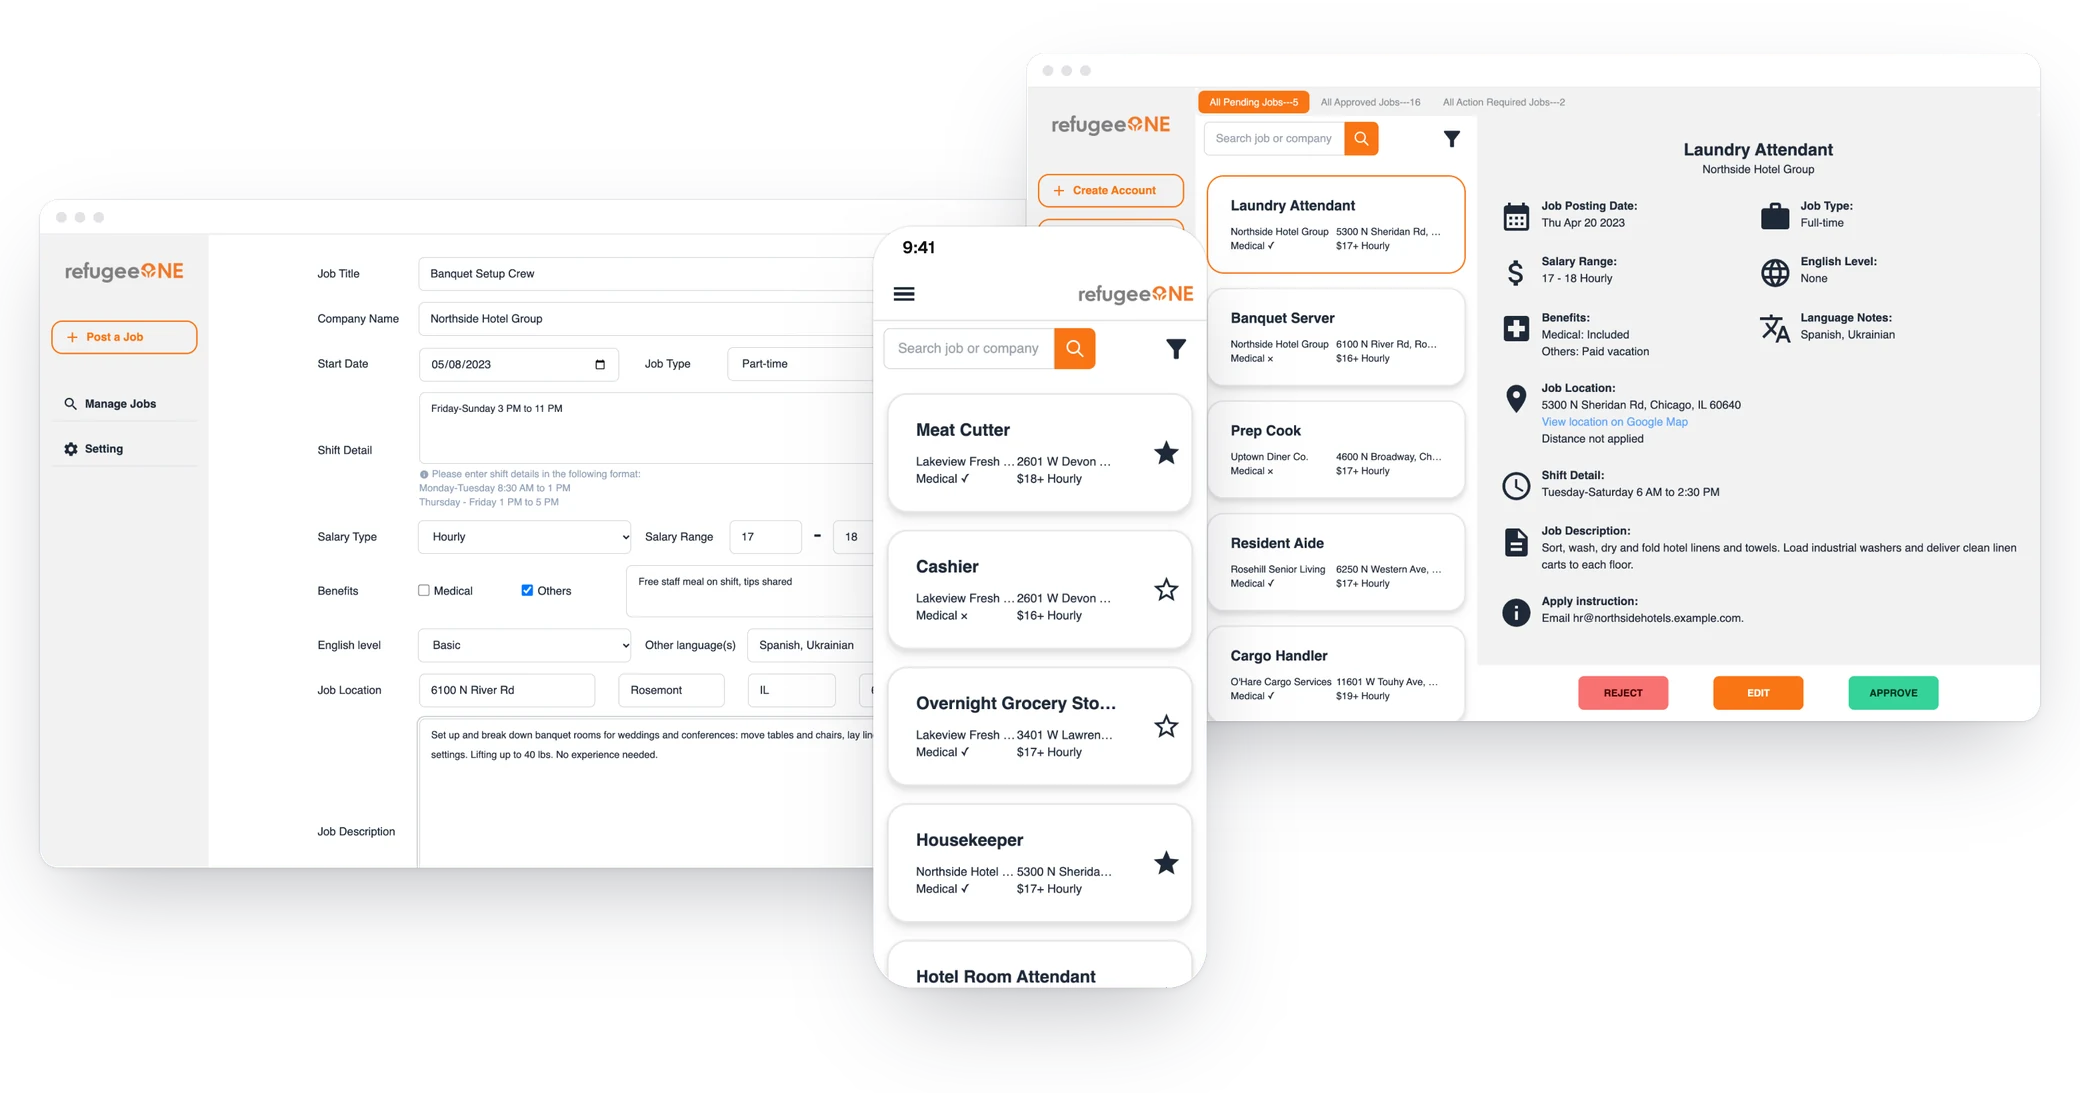
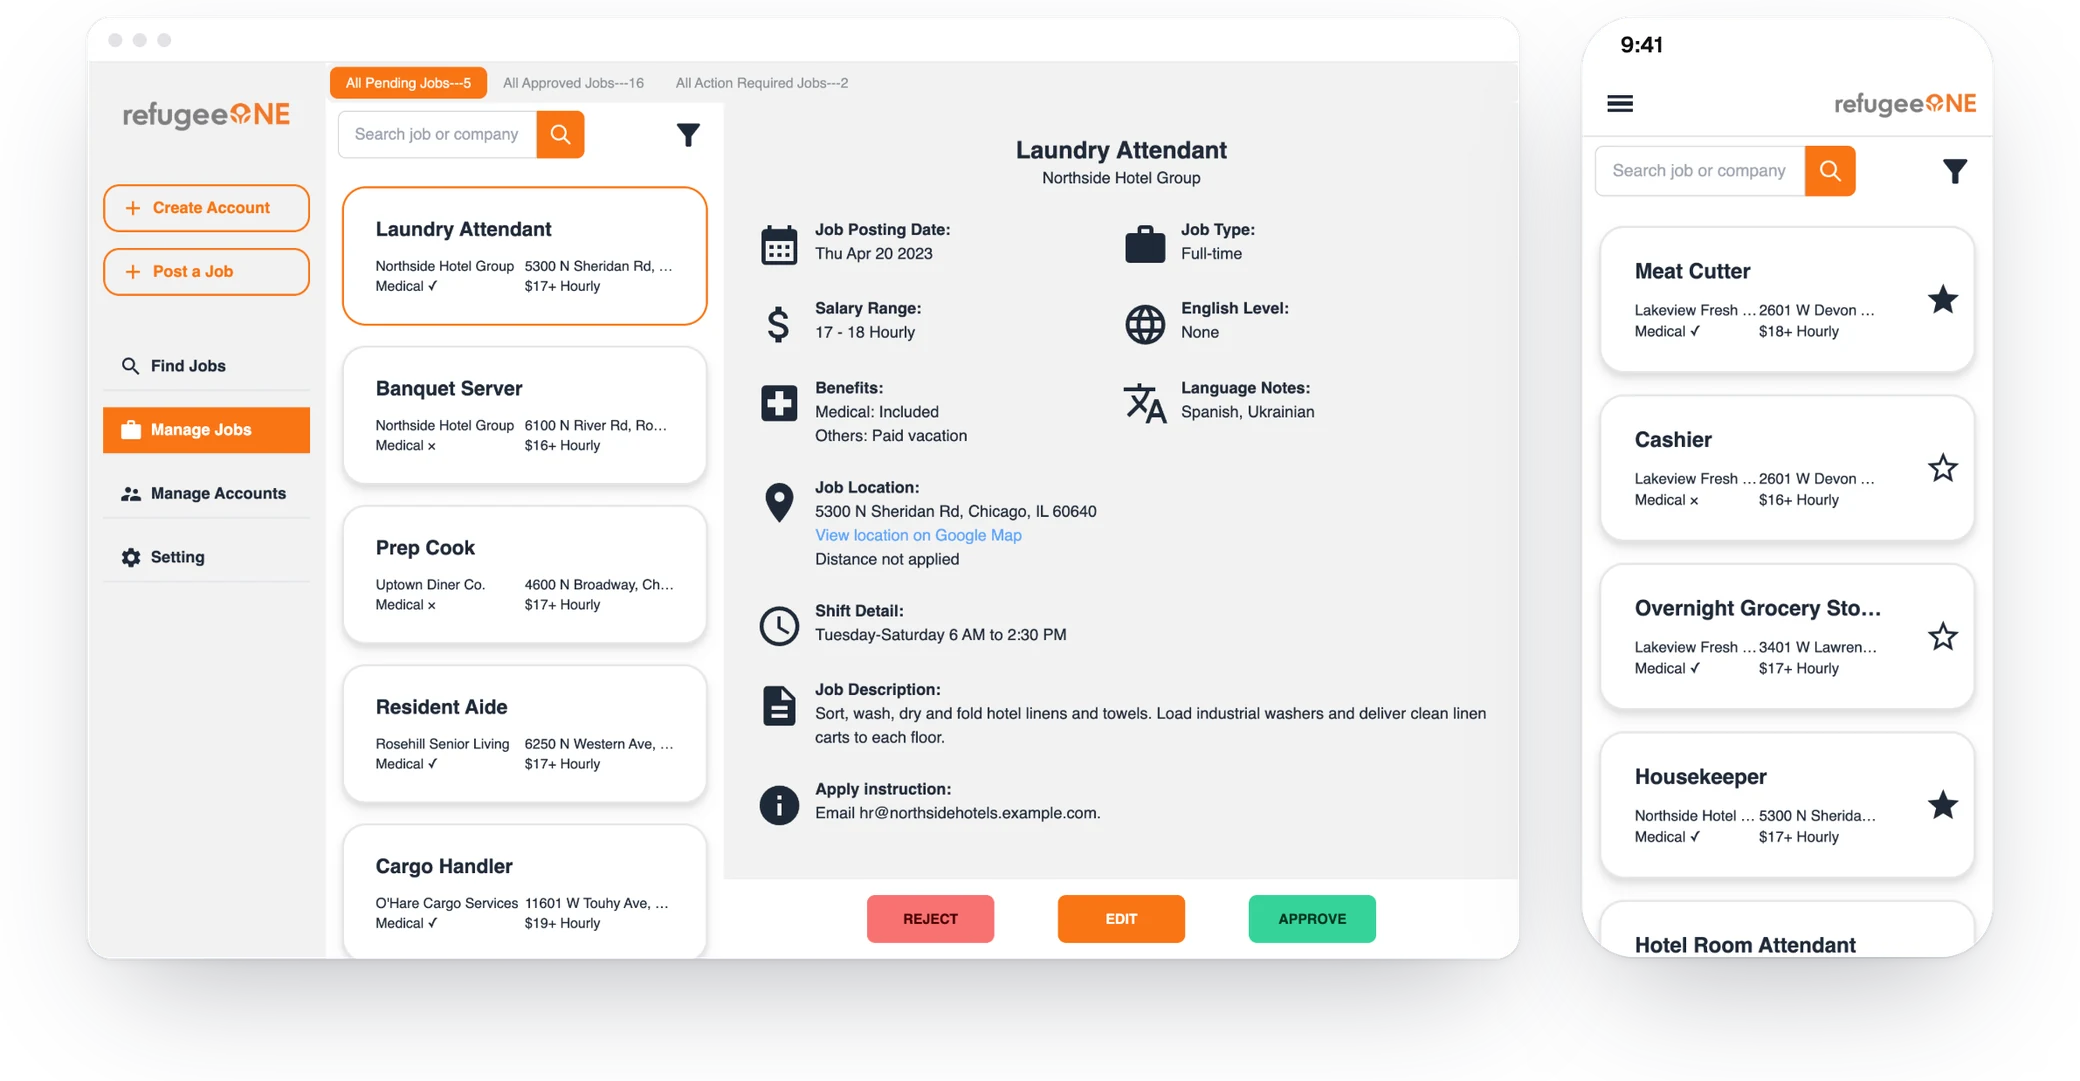
RefugeeOne: shorter research intro, the teaser as an aligned desktop + phone pair, 'The Brief' becomes 'From App to Website' with a plain why (#78)

diff --git a/src/data/cases/refugeeone.ts b/src/data/cases/refugeeone.ts
@@ -47,7 +47,7 @@ const results: CaseBlock = {
 };
 
 const researchIntro: CaseBlock[] = [
-  { t: "p", text: "We didn't start from zero. A year earlier, an SI 501 team had interviewed two RefugeeOne staff members and two refugees for the same client and sorted every quote onto an affinity wall. We read all of it, then held our own kickoff with RefugeeOne's employment team and walked through what they used every day: a Google Form, two spreadsheets and a map they kept up by hand." },
+  { t: "p", text: "We built on an SI 501 team's study from the year before: interviews with two RefugeeOne staff members and two refugees, sorted onto an affinity wall. Then we walked through RefugeeOne's own tools with its employment team: a Google Form, two spreadsheets and a hand-kept map." },
   { t: "img", src: "refugeeone/affinity.png", caption: "One cluster of the SI 501 affinity wall: interview notes in yellow, the themes they add up to in blue and pink, the insight in green", w: 735 },
 ];
 
@@ -67,11 +67,11 @@ const problemStatement: CaseBlock = {
 const brief: CaseBlock = {
   t: "versus",
   before: {
-    label: "The brief", title: "A multilingual smartphone app for refugees",
+    label: "What they asked for", title: "A multilingual smartphone app for refugees",
     items: ["One user: the refugee", "Installs, app stores and updates", "Translation built into the product", "Employers still email staff, and the spreadsheet stays"],
   },
   after: {
-    label: "What we built", title: "One responsive website with a workspace for each role",
+    label: "What we proposed", title: "One responsive website with a workspace for each role",
     items: ["Refugees search on their phones, nothing to install", "Employers post jobs from a laptop", "Staff review every job and account in one dashboard", "Icons on every field, plus the browser's own translation"],
   },
 };
@@ -176,7 +176,7 @@ const hats: CaseBlock = {
 };
 
 const lessons: CaseBlock[] = [
-  { t: "sub", text: "Solve the problem, not the brief" },
+  { t: "sub", text: "Solve the problem, not the request" },
   { t: "p", text: "The biggest call we made was not building the app we were asked for. Looking at the whole workflow, not just the refugee's screen, is what let refugees search on their own and gave staff back the hours they had spent walking clients through listings one by one." },
   { t: "sub", text: "Walk through the data model with the client" },
   { t: "p", text: "RefugeeOne discovered what it needed as it saw each screen, and every change rippled through the UI, the database and the logic. Next time I'd walk through the data model and each role's workflow with the client before the first sprint, not just the mockups." },
@@ -190,7 +190,7 @@ const closing: CaseBlock[] = [
   { t: "p", text: "Built with Neha Kumari, Mike (Jiayao) Wu, Ken DeBacker, Yipeng Lin and Annie (Mingyu) Li." },
 ];
 
-// ---------- research → rethink the brief → design → product → build → reflection ----------
+// ---------- research → app to website → design → product → build → reflection ----------
 
 const a: CaseStudy = {
   ...meta,
@@ -213,8 +213,8 @@ const a: CaseStudy = {
       findings,
       problemStatement,
     ] },
-    { id: "rethink", label: "The Brief", blocks: [
-      { t: "p", text: "RefugeeOne asked for a multilingual smartphone app for refugees. Mapping everyone who touches a job listing changed the shape of the product." },
+    { id: "rethink", label: "From App to Website", blocks: [
+      { t: "p", text: "RefugeeOne asked us for a smartphone app for refugees. But a job listing passes through three groups: employers post it, staff review it, refugees search it. An app for refugees alone would fix only the last step, so ==we proposed one website with a workspace for each group== instead." },
       brief,
       ...briefWhy,
       { t: "h", text: "One job, three sides" },
